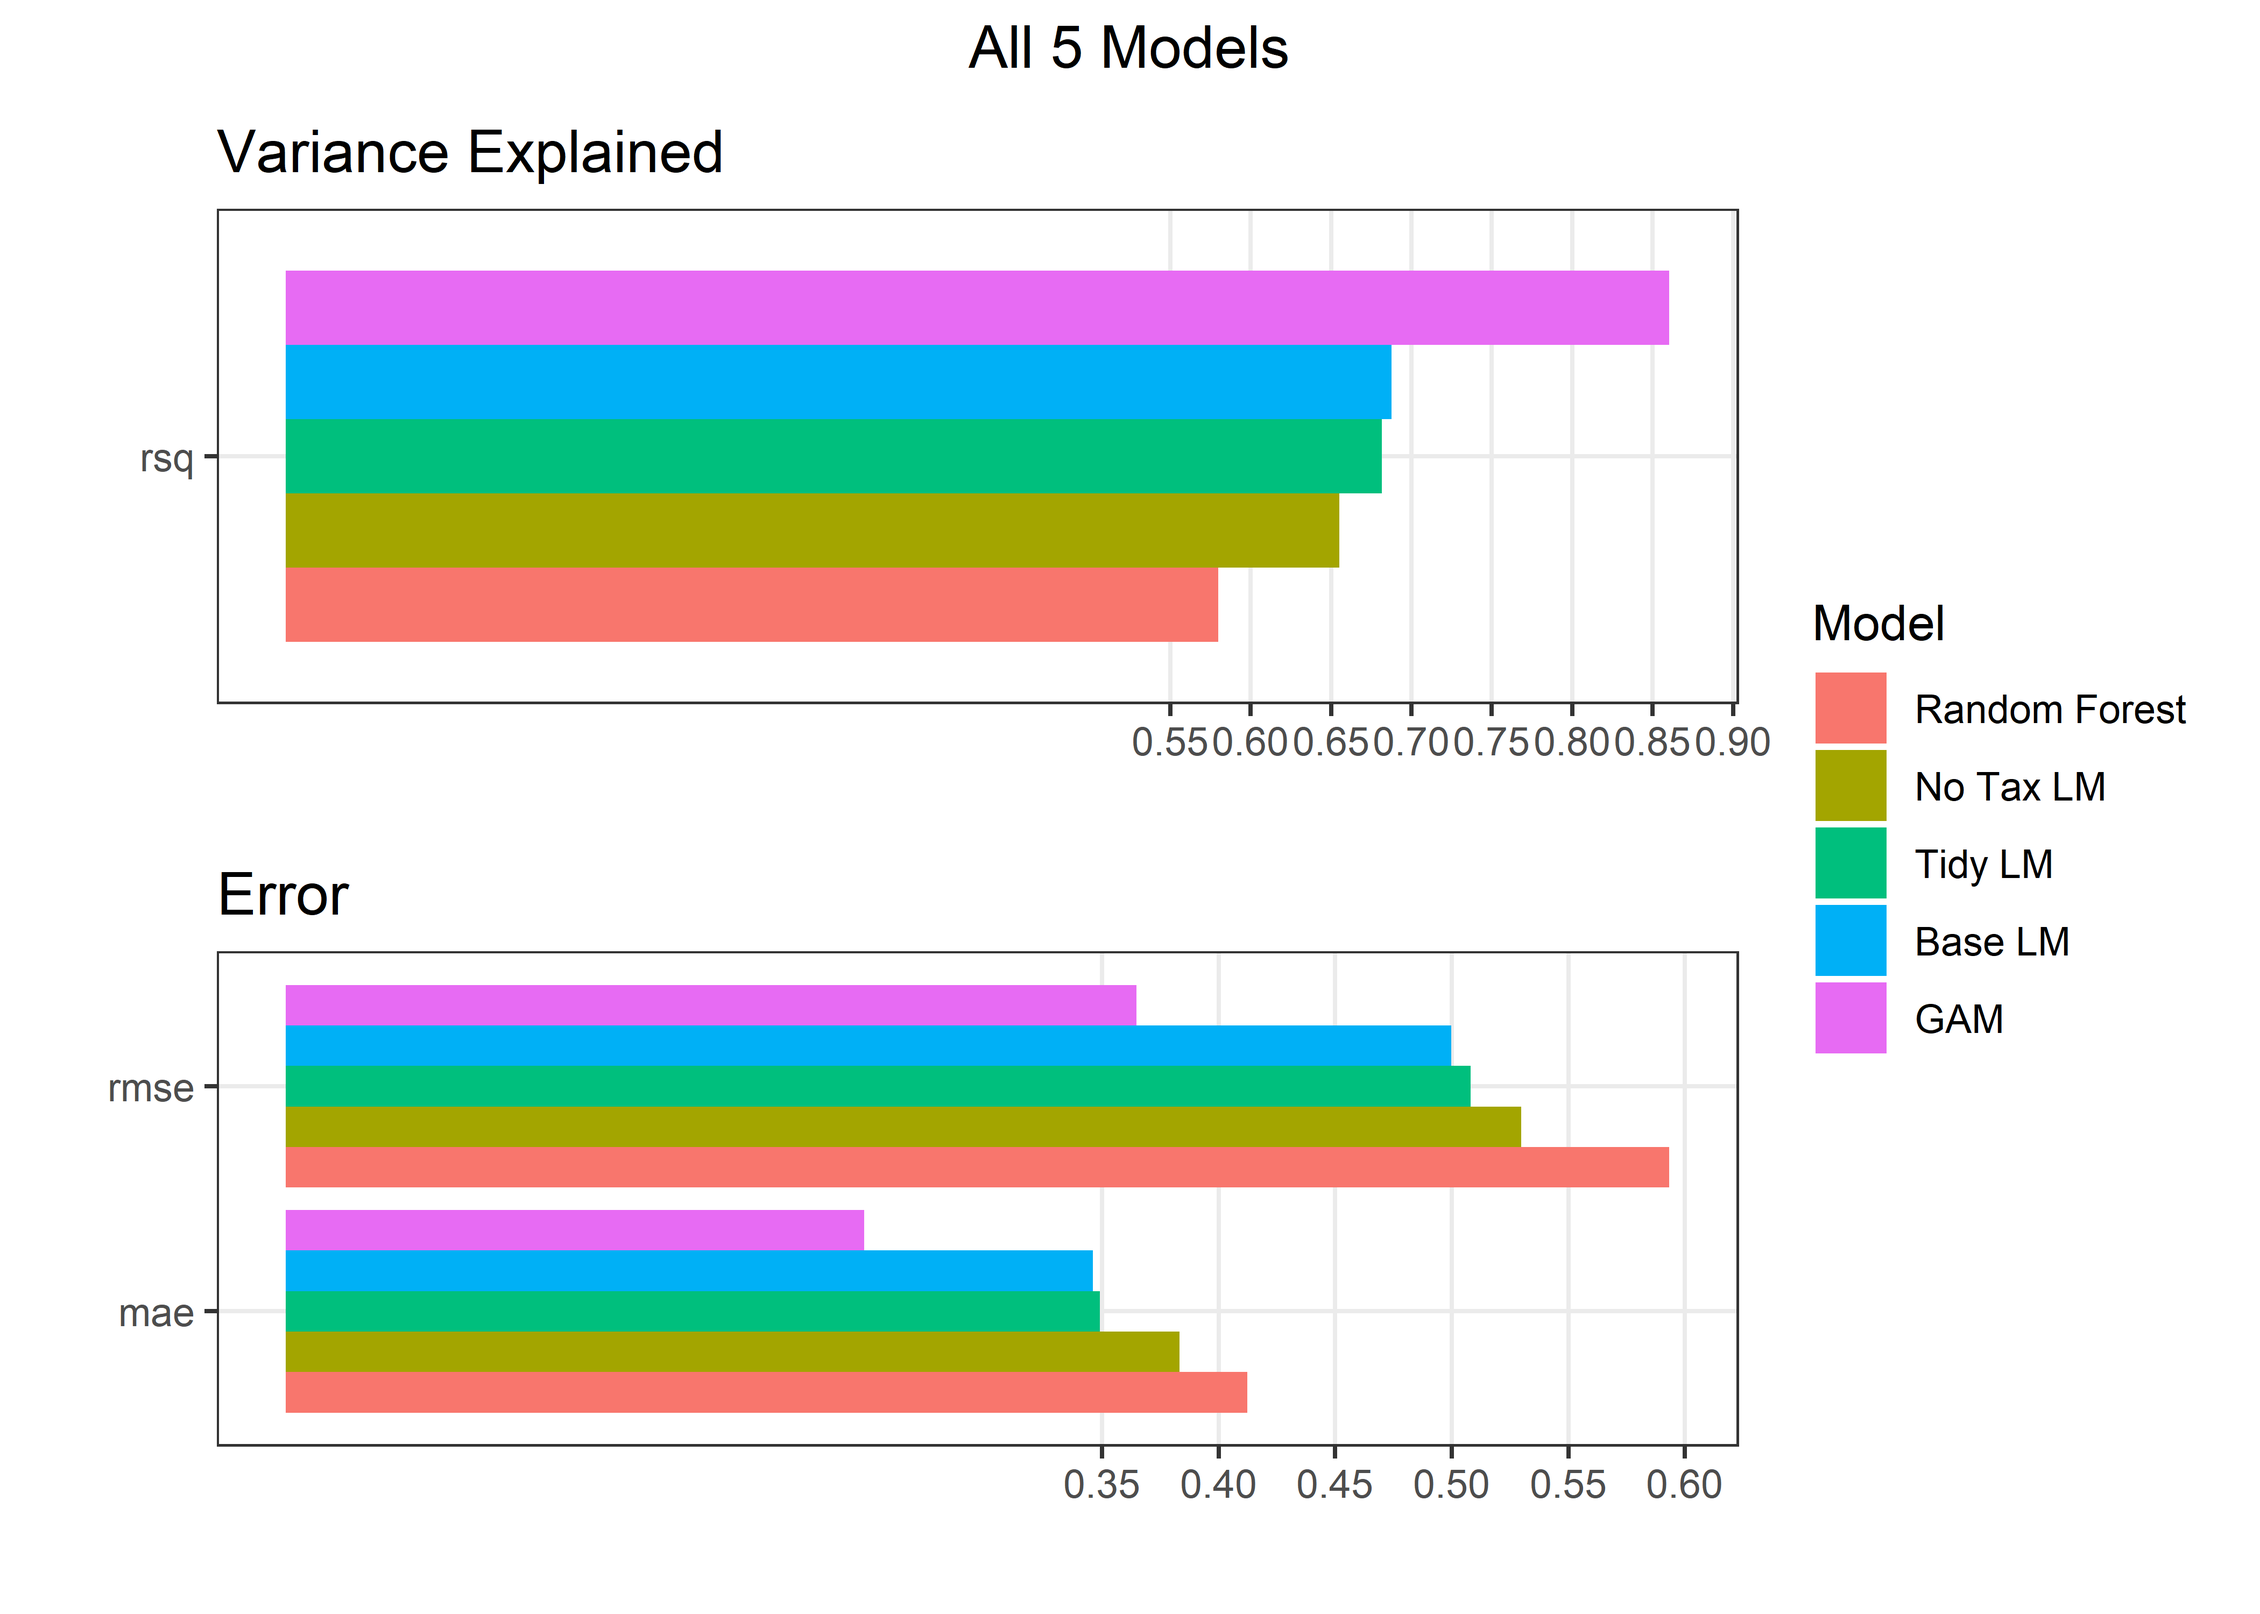
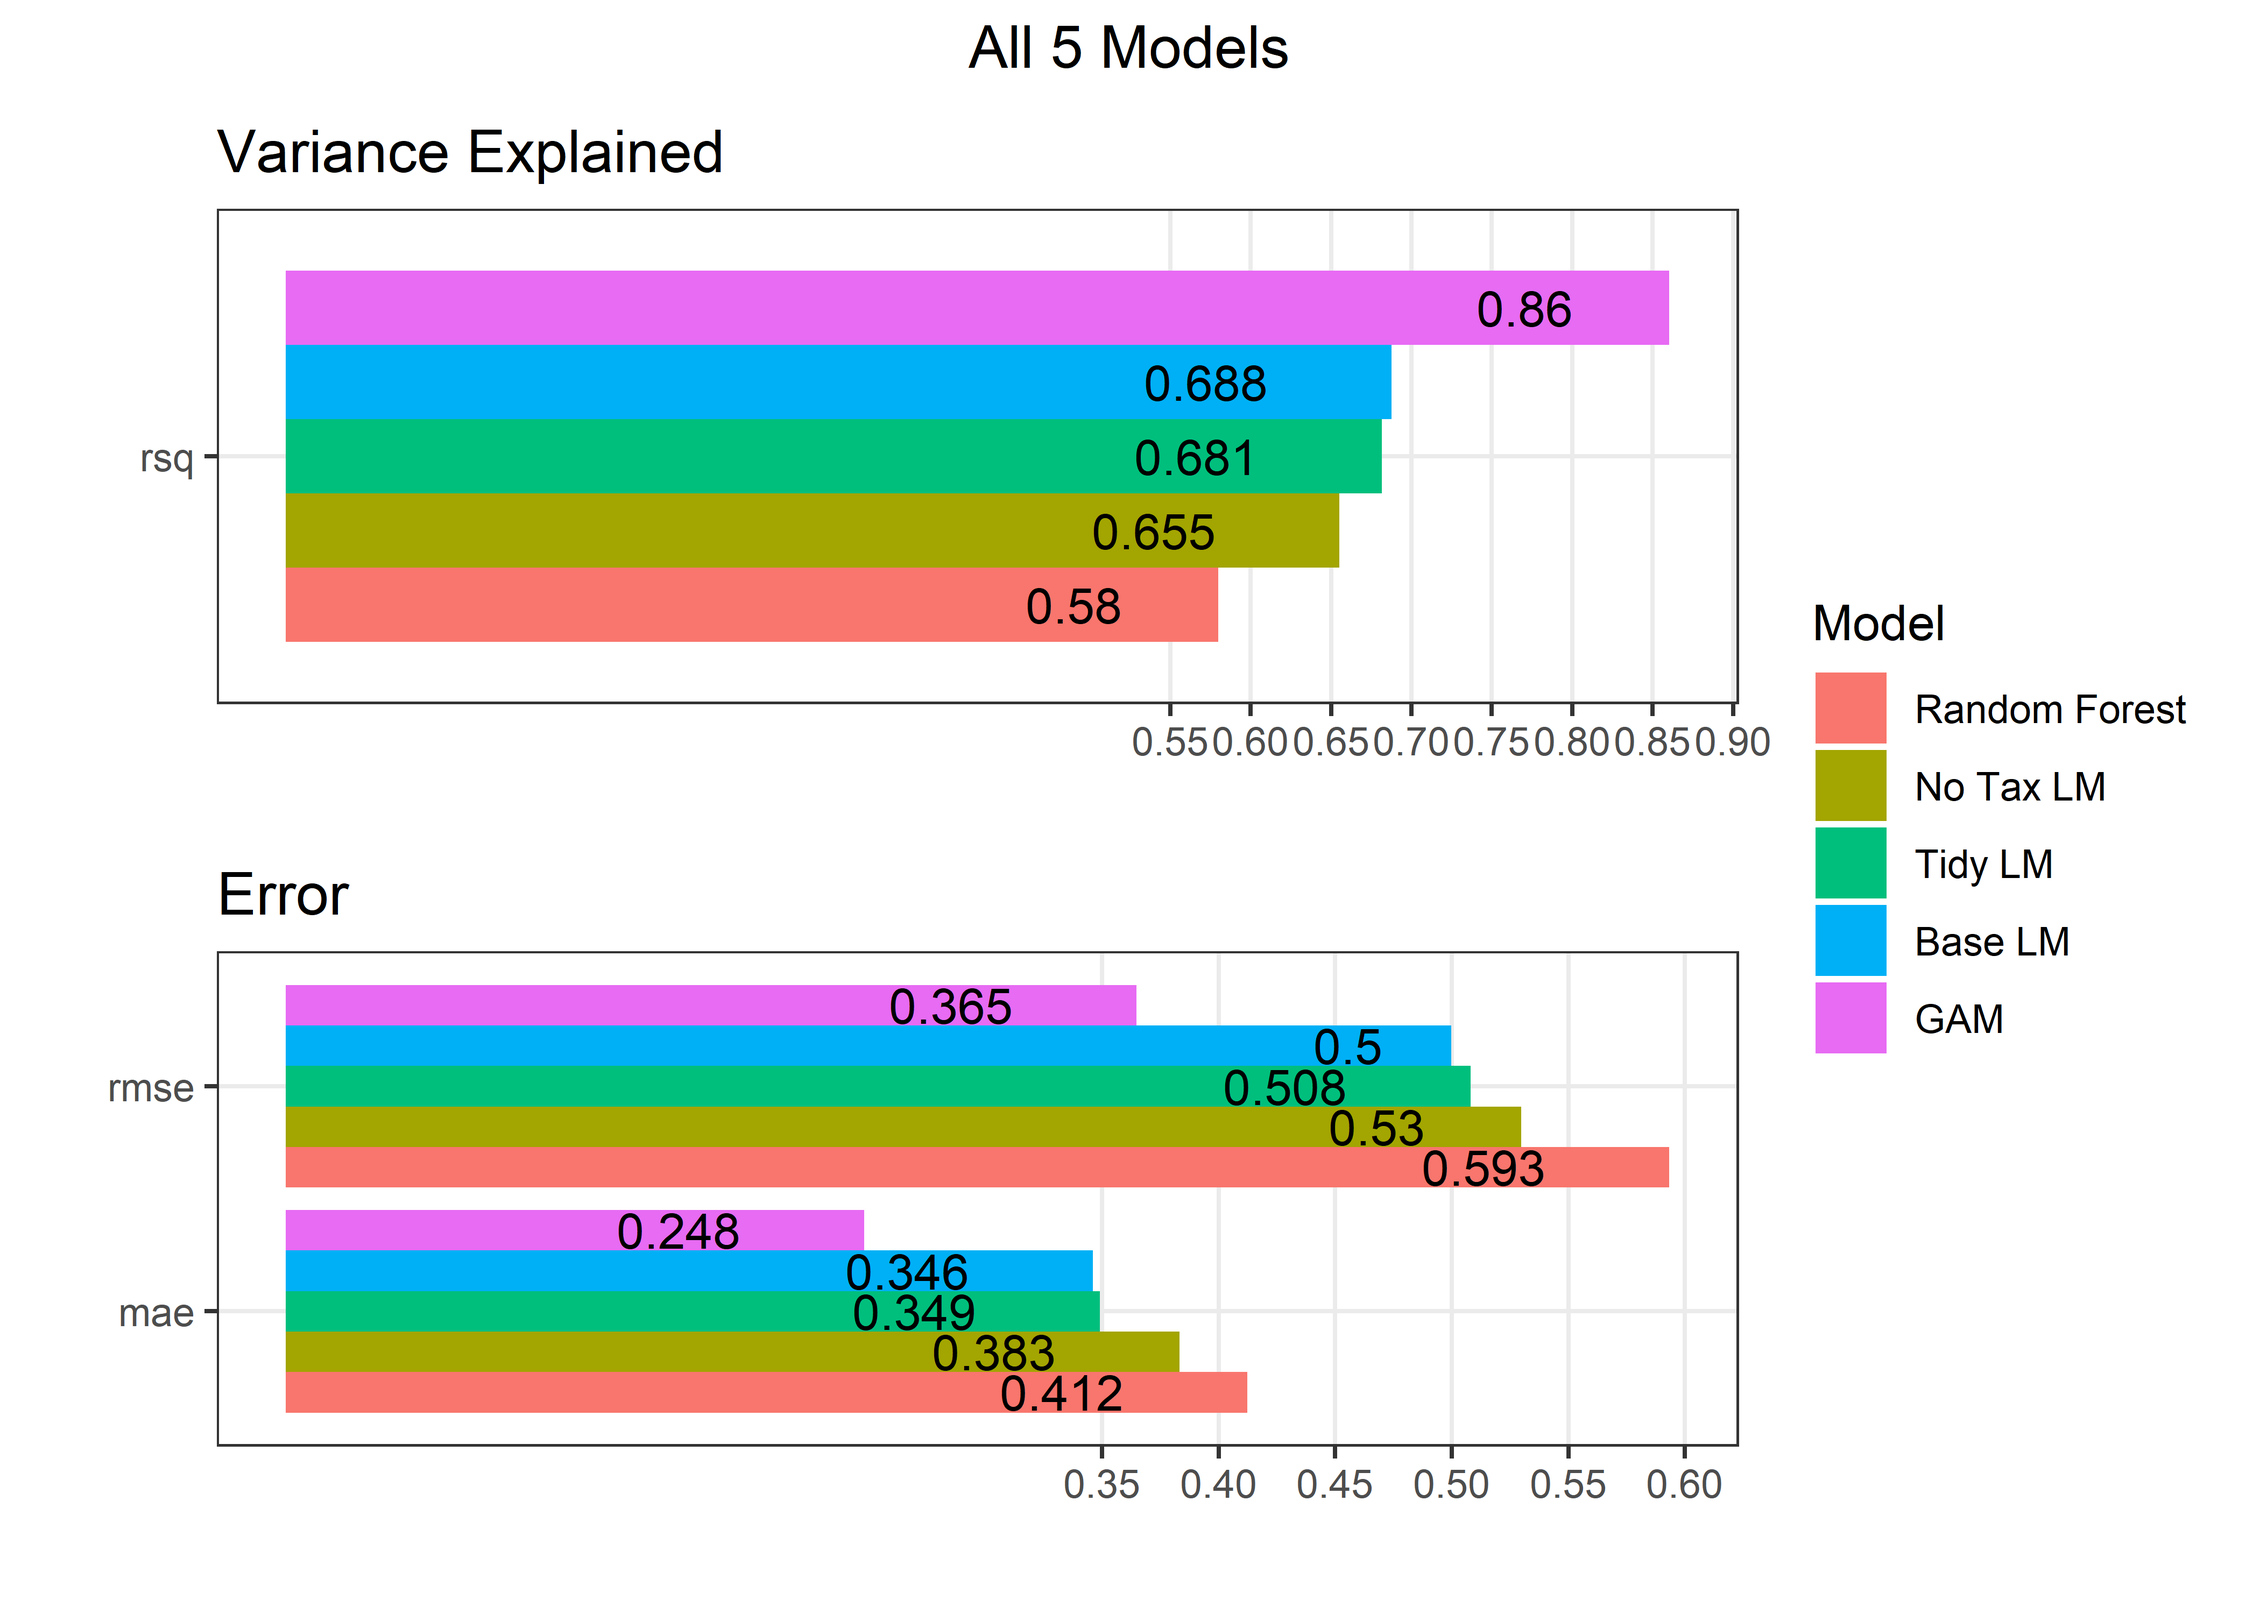
TOC update and geom_text

diff --git a/NYC House Prices/NYCHousePrices.md b/NYC House Prices/NYCHousePrices.md
@@ -26,6 +26,8 @@ Matthew
         the trees</a>
 -   <a href="#just-let-gam-figure-it-out"
     id="toc-just-let-gam-figure-it-out">Just let Gam figure it out</a>
+-   <a href="#all-final-model-metrics" id="toc-all-final-model-metrics">All
+    Final Model Metrics</a>
 
 # Introduction
 
@@ -1076,6 +1078,8 @@ took too long for my computer to run. So, we will leave it like this!
 
 And if you are wondering, its metrics did improve.
 
+# All Final Model Metrics
+
 ``` r
 (all_metrics_rf <- all_metrics_rf %>% 
   bind_rows(augment(gam_mod) %>% 
@@ -1109,12 +1113,14 @@ And if you are wondering, its metrics did improve.
   filter(.metric == "rsq") %>% 
   ggplot(aes(.estimate, .metric, fill = model)) +
   geom_col(position = "dodge") + labs(y = "", x = "", title = "Variance Explained", fill = "Model") + 
-  scale_x_continuous(breaks = seq(0.55,0.9,0.05), minor_breaks = NULL)) /
+  scale_x_continuous(breaks = seq(0.55,0.9,0.05), minor_breaks = NULL) + 
+  geom_text(aes(label = round(.estimate, 3)), position = position_dodge(0.9), hjust = 2)) /
 (all_metrics_rf %>% 
   filter(.metric != "rsq") %>% 
   ggplot(aes(.estimate, .metric, fill = model)) +
   geom_col(position = "dodge") + labs(y = "", x = "", title = "Error", fill = "Model") + 
-  scale_x_continuous(breaks = seq(0.35,0.7,0.05), minor_breaks = NULL)) +
+  scale_x_continuous(breaks = seq(0.35,0.7,0.05), minor_breaks = NULL) +
+  geom_text(aes(label = round(.estimate, 3)), position = position_dodge(0.9), hjust = 2)) +
 plot_layout(guides = "collect") +
 plot_annotation(title = "All 5 Models",
                 theme = theme(plot.title = element_text(hjust = 0.5)))
